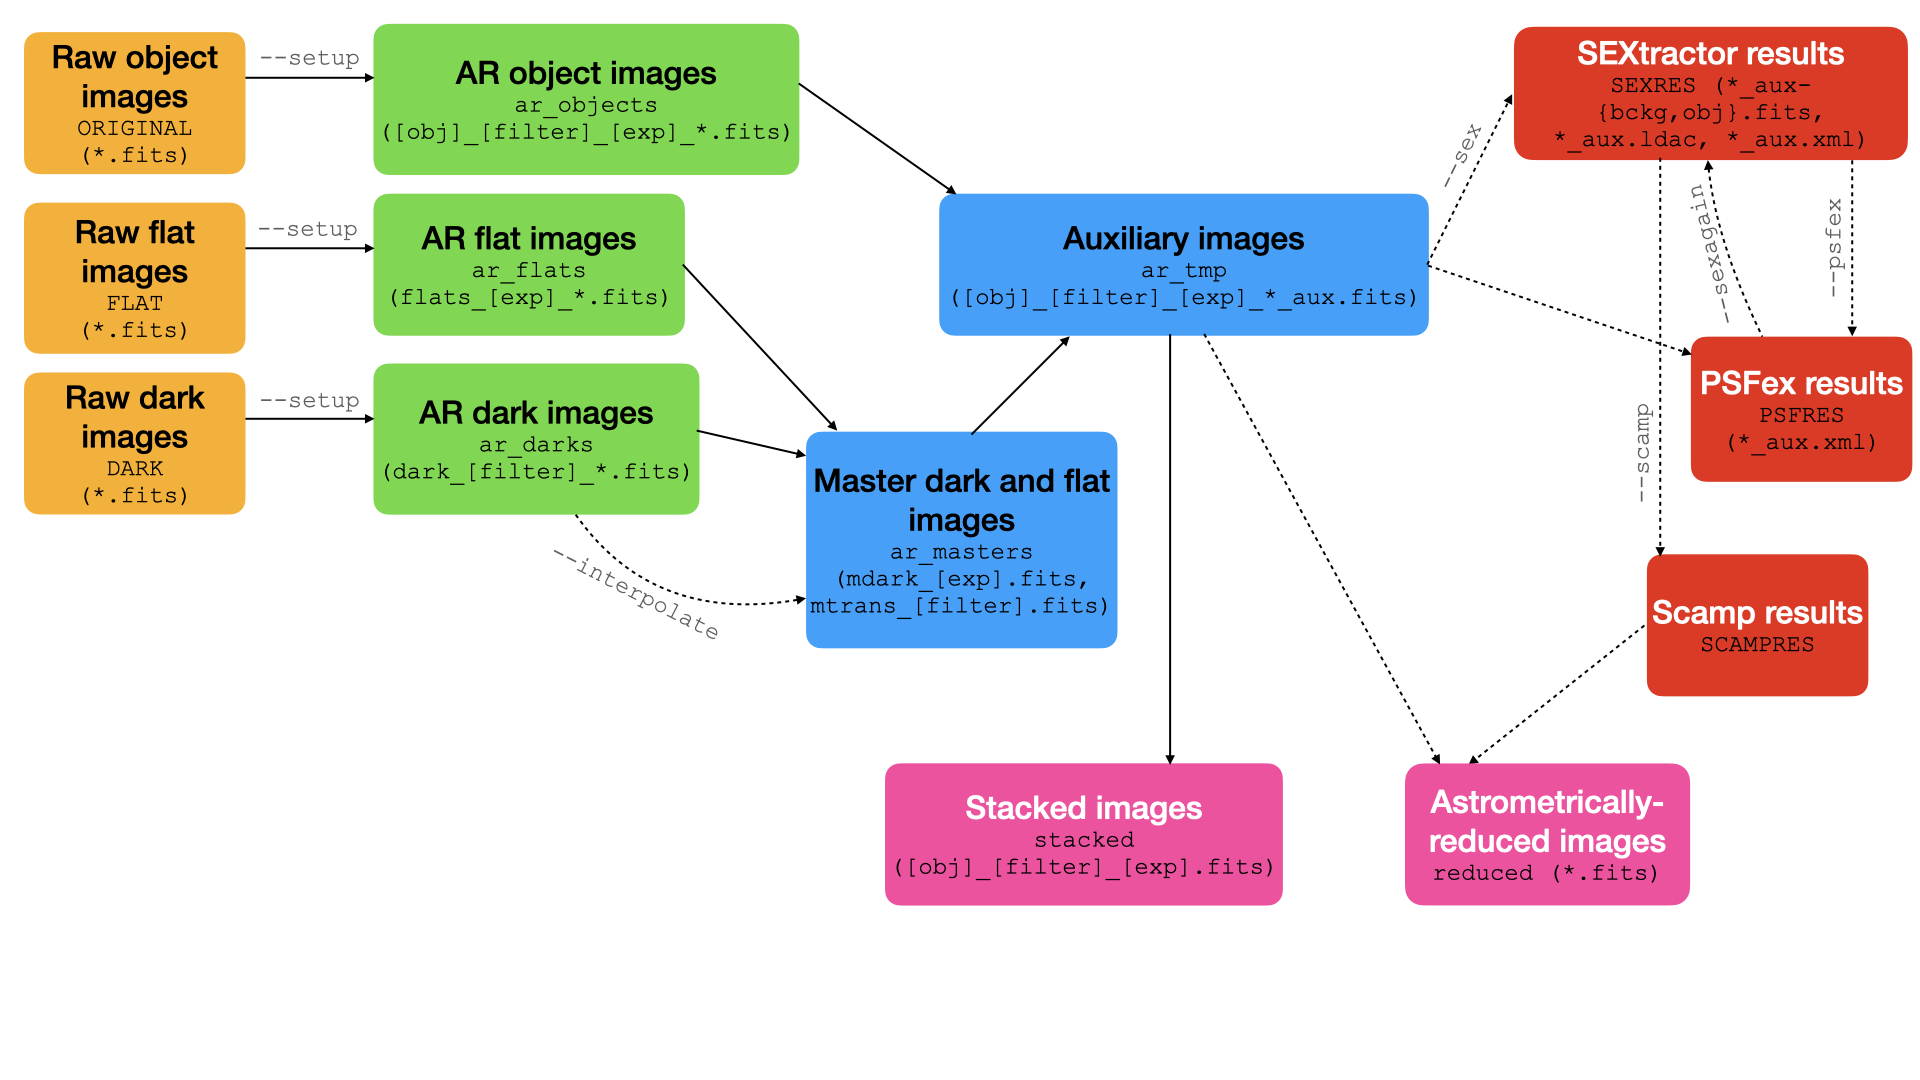
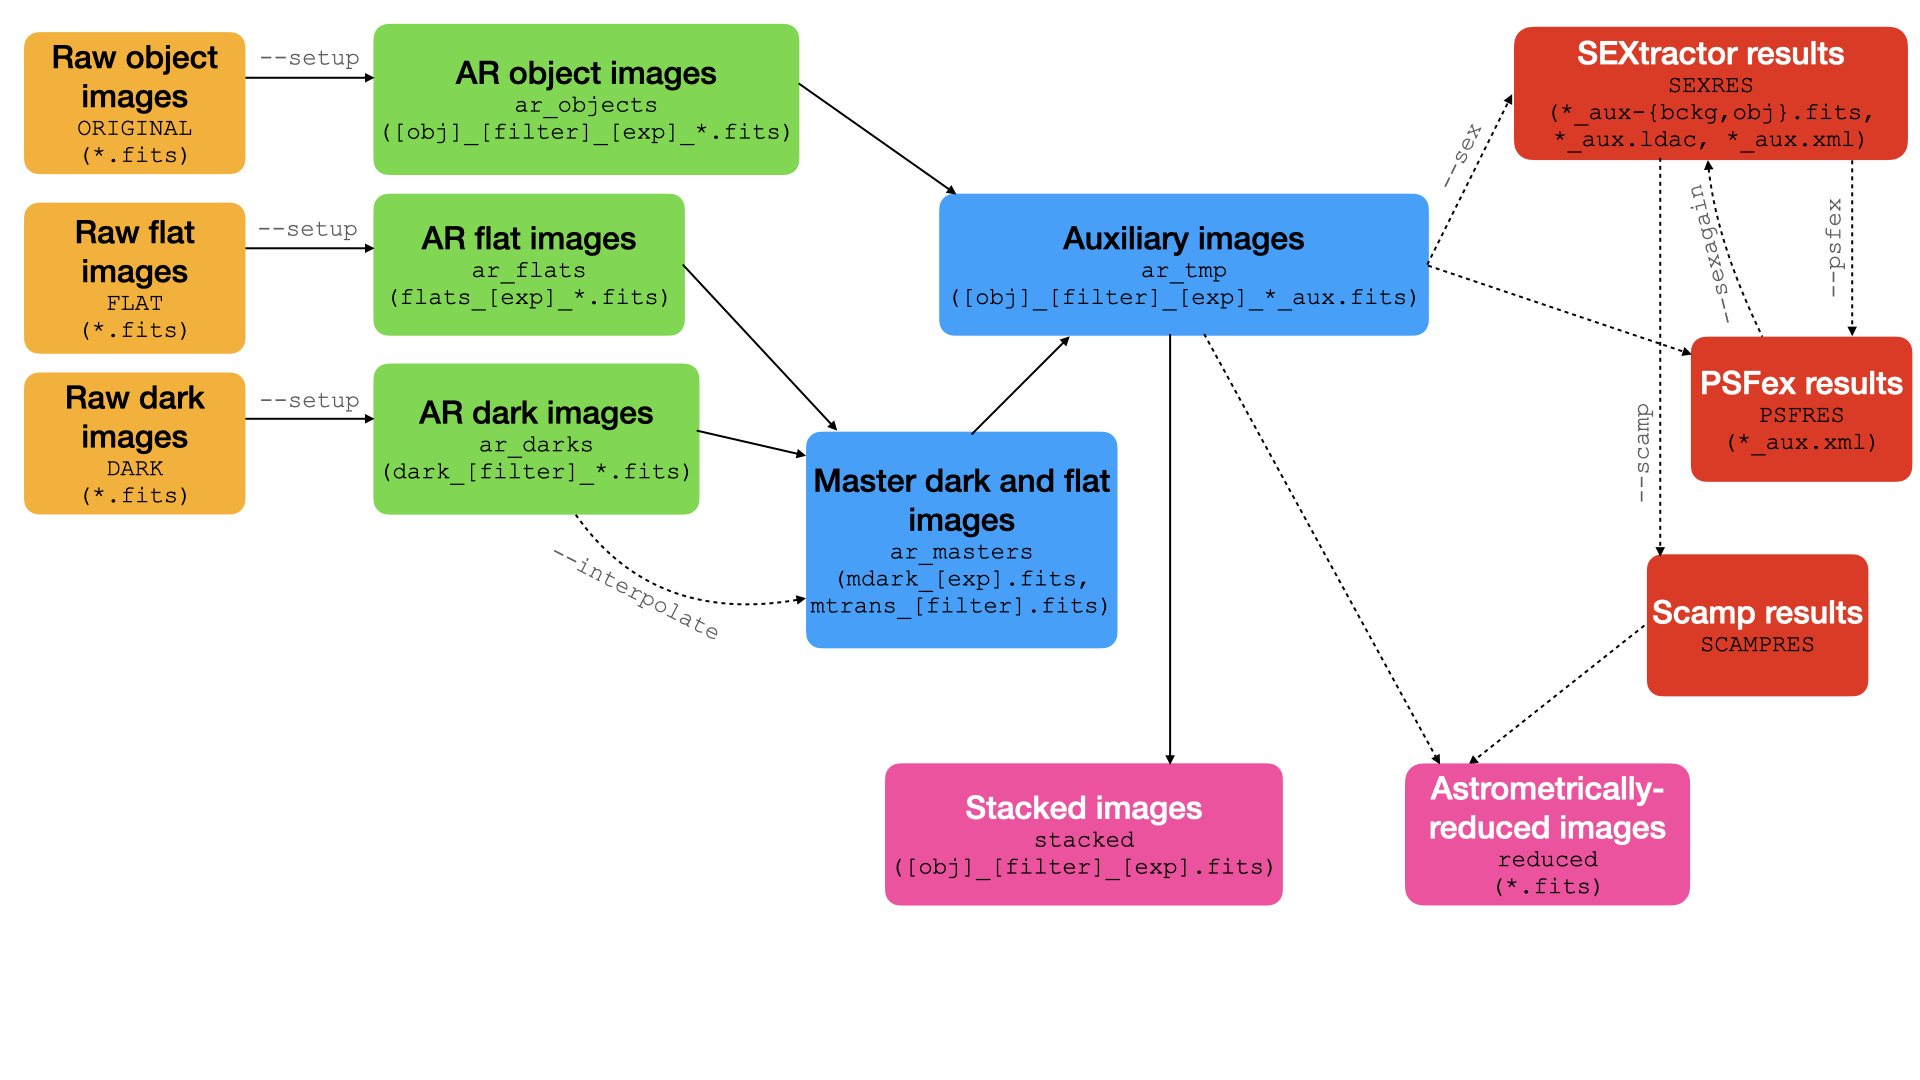
Updated documentation
Prepare for 4.1.0

Changed region(s): [[0.75, 0.7028, 0.875, 0.825], [0.8125, 0.0611, 0.9688, 0.1222]]

diff --git a/astro_reduce.py b/astro_reduce.py
@@ -48,9 +48,10 @@ from helpers import SEX_TMP, PSFEX_TMP, SEXAGAIN_OPT_TMP, SCAMP_TMP
               help='Enables verbose mode (recommended).')
 @click.option('--tmppng', '-t', is_flag=True,
               help='Write PNG format of auxiliary and master images '
-              'after reduction.')
+              'after cosmetic reduction.')
 @click.option('--stkpng', '-r', is_flag=True,
-              help='Write PNG format of stacked images after reduction.')
+              help='Write PNG format of stacked images after cosmetic '
+              'reduction.')
 @click.option('--sex', is_flag=True,
               help='Run the `sex` astromatic command on all auxiliary images '
               'after the cosmetic reduction.')

diff --git a/setup.py b/setup.py
@@ -9,7 +9,7 @@ with open("README.md", "r") as fh:
 setup(
     # General info
     name="astro_reduce",
-    version="4.0.0",
+    version="4.1.0",
     py_modules=["astro_reduce", "helpers", "cosmetic"],
 
     # Dependencies

diff --git a/README.md b/README.md
@@ -3,8 +3,9 @@
 [![image](http://img.shields.io/pypi/v/astro-reduce.svg)](https://pypi.python.org/pypi/astro-reduce/)
 
 ## What does astro_reduce do?
+`astro_reduce` carries out the cosmetic and astrometric reduction of astronomical CCD images read in FITS format. The cosmetic reduction is done in a standard fashion with dark and flat field images. The astrometric reduction is done via calling the [Astromatic Software Suite](https://www.astromatic.net/) on the images obtained from the cosmetic reduction.
 
-`astro_reduce` carries out the cosmetic and astrometric reduction of astronomical CCD images read in FITS format. The cosmetic reduction is done in a standard fashion with dark and flat field images. Optionally, it can interpolate missing dark fields from the ones available, and can also convert the intermediate and reduced images to PNG format for easy inspection. The astromatric reduction is done via calling the [Astromatic Software Suite](https://www.astromatic.net/) on the images obtained from the cosmetic reduction. For this, the relevant commands--either `sex`, `psfex` or `scamp` accordingly with the specified options--must be installed on your system. The configuration files for these commands are handled internally by `astro_reduce`, you do not need to provide them.
+Optionally, it can interpolate dark fields for exposure times missing in the available data and can also convert the intermediate and reduced images to PNG format for easy inspection. The astrometric reduction can be carried out anywhere from simply extracting sources to catalogs up to updating the image headers with astrometric output such as the linear projection matrix coefficients. For this, the relevant commands--either `sex`, `psfex` or `scamp` accordingly with the specified options--must be installed on your system. The configuration files for these commands are handled internally by `astro_reduce`, you do not need to provide them.
 
 To operate, `astro_reduce` is to be launched from a directory containing three folders:
 - A `DARK` folder, containing all the dark field images,
@@ -13,13 +14,13 @@ To operate, `astro_reduce` is to be launched from a directory containing three f
 
 All files must be in FITS format, with correct filter, exposure time and object header keywords wherever relevant.
 
-When launched for the first time in a directory, use the `--setup` option. This will copy all data files to working folders (thereby backing up the original data). Then, run `astro_reduce` again without the `--setup` option to run the cosmetic and astrometrical reduction. On the way, intermediate images such as master dark fields or non-stacked object fields are safe-kept in the `MASTER` and `ar_tmp/` folders.
+The flowchart below illustrates how `astro_reduce` runs. The boxes describe the content of folders found after the run, with directory names and filename formats therein. The lines describe the flow of data during the run: solid lines indicate the standard run of the program, while dashed lines can be realized optionally.
 
-After running, the final stacked images can be found in the `stacked/` folder. The cosmetic reduction process and the nomenclature for the naming of the files in the `MASTER`, `ar_tmp/` and `stacked/` folders are given in the _Reduction method_ paragraph below.
+When launched for the first time in a directory, use the `--setup` option. This will copy all data files to working folders (thereby backing up the original data). Then, run `astro_reduce` again with relevant options to run the cosmetic and astrometric reductions; see details below on usage.
+
+During cosmetic reduction, intermediate images such as master dark fields or non-stacked object images are safe-kept in the `ar_masters/` and `ar_tmp/` folders. The final stacked images can be found in the `stacked/` folder. The cosmetic reduction process and the nomenclature for the naming of the files in the `ar_masters/`, `ar_tmp/` and `stacked/` folders are given in the _Cosmetic reduction method_ paragraph below. If options to perform the astrometric reduction were used, the results (such as source catalogs) can be found after running in the `SEXRES`, `PSFRES` and `SCAMPRES` folders. The images with updated astrometric header data can be found in the `reduced/` folder, see _Astrometric reduction method_ below.
 
 __Note:__ It is highly recommended to inspect the intermediate images produced by `astro_reduce` before considering the final reduced images. Also, we highly recommend you inspect your raw images and eliminate any bad ones before launching the software.
-
-If options to run the Astromatic software were used, the results can be found after running in the `SEXRES`, `PSFRES` and `SCAMPRES` folders.
 
 ![flowchart](https://github.com/bandang0/astro_reduce/blob/documentation/info/flowchart.jpeg)
 
@@ -29,7 +30,7 @@ The `astro_reduce` program can be installed from the PyPI under the name `astro-
 Alternatively, use the `setup.py` file in the project directory with `python3 setup.py install --user` to install the program locally. You should then include `~/.local/bin` (or `~/Library/Python/3.x/bin` for Mac users) to your path in order to invoke `astro_reduce` from the console.
 
 ### Dependencies
-`astro_reduce` is written in Python 3.0.
+`astro_reduce` is written in Python 3.
 
 `astro_reduce` depends on the `click`, `astropy`, `numpy`, `scipy` and `matplotlib` Python packages, which are all available through the PyPI.
 
@@ -38,7 +39,7 @@ When used for the first time in a directory, or when the data has been modified 
 
 `astro_reduce --setup [--verbose]`
 
-This will setup the reduction by copying all the raw data to `astro_reduce`'s working folders whilst changing the file names to standardized formats. Also, during this phase, a configuration file in the JSON format will be written. It summarizes the objects, filters and exposures times present in the original data and is used by `astro_reduce` in the reduction process. This file should be left in the directory for further reference or for later rerunning of the program.
+This will setup the reduction by copying all the raw data to `astro_reduce`'s working folders whilst changing the file names to standardized formats, as seen in the flowchart. Also, during this phase, a configuration file in the JSON format will be written. It summarizes the objects, filters and exposures times present in the original data and is used by `astro_reduce` in the reduction process. This file should be left in the directory for further reference or for later rerunning of the program.
 
 __Note:__ This first setup step is effectively a back-up of your data, as the data left in the `DARK`, `FLAT` and `ORIGINAL` folders are no longer touched during the subsequent reduction process.
 
@@ -51,59 +52,76 @@ If the setup has already been done in the directory by prior use of the `--setup
 `astro_reduce` has been tested on Linux and Mac platforms, and has yet to be tested on Windows.
 
 ### Options
-- `--version          Show the version and exit.`
-- `-s, --setup        Set up the directory for reduction. Use this option the first time astro_reduce is run in the directory or after the --clear option was used.`
-- `-c, --clear        Remove all astro_reduce-related files and folders in current directory and exit.`
-- `-i, --interpolate  Interpolate existing dark fields if some are missing.`
-- `-v, --verbose      Enables verbose mode (recommended).`
-- `-t, --tmppng       Write PNG format of intermediate images after reduction.`
-- `-r, --redpng       Write PNG format of reduced images after reduction.`
-- `--sex              Run the 'sex' astromatic command on all reduced images after reduction.`
-- `--psfex            Run the 'psfex' astromatic command with the 'sex'-determined sources in all reduced images.`
-- `--sexagain         Run the 'sex' astromatic command a second time, using the 'psfex'-determined PSF data.`
-- `--help             Show this message and exit.`
 
+- `--version          Show the version and exit.`
+-  `-s, --setup        Set up the directory for reduction. Use this option the first time astro_reduce is run in the directory or after the '--clear' option was used.`
+-  `-c, --clear        Remove all astro_reduce-related files and folders in current directory and exit.`
+-  `-i, --interpolate  Interpolate existing dark fields if some are missing.`
+-  `-v, --verbose      Enables verbose mode (recommended).`
+-  `-t, --tmppng       Write PNG format of auxiliary and master images after cosmetic reduction.`
+-  `-r, --stkpng       Write PNG format of stacked images after cosmetic reduction.`
+-  `--sex              Run the 'sex' Astromatic command on all auxiliary images after the cosmetic reduction.`
+-  `--psfex            Run the 'psfex' Astromatic command with the 'sex'-determined sources in all auxiliary images.`
+-  `--sexagain         Run the 'sex' Astromatic command a second time, using the 'psfex'-determined PSF data.`
+-  `--scamp            Run the 'scamp' Astromatic command on all auxiliary images after cosmetic reduction.`
+-  `--nomaster         If set, do not calculate the master darks and flats (and assume they are already there!).`
+- ` --nostack          If set, skip the stacking process.`
+- `--help             Show this message and exit.`
 
 ## Cosmetic reduction method
 ### Master dark images
 For a given exposure time, the _master dark_ is calculated as the pixel-wise __median__ of all the dark fields of that exposure. This allows to eliminate cosmic ray traces.
 
 #### Dark field interpolation
-In the case where some dark fields are missing, `astro_reduce` can interpolate from the available master darks to obtain master darks for all the exposures necessary to reduce the object or flat images. This is done by specifying the `--interpolate` option.
+In the case where dark fields for some exposure times are missing, `astro_reduce` can interpolate from the available master darks to obtain master darks for all the exposures necessary to reduce the object or flat images. This is done by specifying the `--interpolate` option.
 
 The interpolation is _least-square linear_, i.e., two images A and B are determined from the available master dark images such as to __minimize the square error__ on the linear interpolation (master dark) = (exposure time) x A + B.
 
 Using these A and B, the missing master darks are calculated according to this equation.
 
->The FITS files for all the master dark images (deduced from dark fields or interpolated) can be found after reduction in the `tmp` directory under the names `mdark_[exposure].fits`.
+>The FITS files for all the master dark images (deduced from dark fields or interpolated) can be found after run in the `ar_masters/` directory under the names `mdark_[exposure].fits`.
 
 ### Master transmission images
-The _master transmission_ image for a given filter is an image which encompasses the relative transmission of each pixel in the optical setup (telescope optics through filter to CCD matrix). It is calculated for every filter as the __median__ over all flat field images, after __subtraction of corresponding master dark images__ and __normalization__.
+The _master transmission_ image for a given filter is an image which encompasses the relative transmission of each pixel in the optical setup (telescope optics through filters to CCD matrix). It is calculated for every filter as the __median__ over all flat field images, after __subtraction of corresponding master dark images__ and __normalization__.
 
->The FITS files for all the master transmission images can be found after reduction in the `tmp/` directory under the names `mtrans_[filter].fits`.
+>The FITS files for all the master transmission images can be found after reduction in the `ar_masters/` directory under the names `mtrans_[filter].fits`.
+
+If you have already run `astro_reduce` or have your own master dark and flat images, you can skip these two last steps with the `--nomaster` option. Beware that, in this case, you must place your custom master files in the `ar_masters/` folder before running.
 
 ### Individual image reduction
-An object image of given exposure and filter is reduced by __subtracting__ the corresponding exposure master dark image, and __dividing__ by the corresponding filter master transmission image.
+An object image of given exposure and filter is cosmetically reduced by __subtracting__ the corresponding exposure master dark image, and __dividing__ by the corresponding filter master transmission image. We refer to these images as the _auxiliary_ images, as in the flowchart.
 
->The FITS files for object _obj_, with filter _filt_ and exposure time _exp_ are found in the `tmp/` folder after reduction, under the name `[obj]_[filt]_[exp]_*_aux.fits` (for _auxiliary_).
+>The FITS files for object _obj_, with filter _filt_ and exposure time _exp_ are found in the `ar_tmp/` folder after reduction, under the name `[obj]_[filt]_[exp]_*_aux.fits` (for _auxiliary_), which contain `astro_reduce`-internal reference numbers.
 
-### Realignment and reduction
-Finally, for each series of same exposure and filter for each object, the auxiliary files are realigned through optimization of their __mutual cross-correlations__, and then their pixel-wise __median__ image is calculated. Using the median rather than the mean allows to efficiently remove hot pixels. This will be all the more effective as dithering has been used in acquiring the images of a series.
+### Realignment and stacking
+Finally, for each series of same exposure and filter for each object, the auxiliary images stacked: they are realigned through optimization of their __mutual cross-correlations__, and then their pixel-wise __median__ image is calculated. Using the median rather than the mean allows to efficiently remove hot pixels. This will be all the more effective as dithering has been used in acquiring the images of a series.
 
-During the realignment, images are rolled to superimpose themselves. Therefore, if the images were too misaligned to begin with, objects that roll beyond the edge can end up in odd places, potentially producing ghost images of objects. During `astro_reduce`'s run, a warning is issued to the user if any image is rolled by more than 15% of the field size during the realignment. In this case, it may be useful to remove the offending image from the dataset. If there are many such images and they are aligned amongst themselves, it is advised to change their names in order to process them together as a separate batch.
+During the realignment, images are rolled to superimpose themselves. Therefore, if the images were too misaligned to begin with, objects that roll beyond the edge can end up in odd places, potentially producing ghost images of objects. During `astro_reduce`'s run, a warning is issued to the user if any image is rolled by more than 15% of the field size during the realignment. In this case, it may be useful to remove the offending image from the dataset. If there are many such images and they are aligned amongst themselves, it is advised to change their header `OBJECT`s in order to process them together as a separate batch.
 
->These realigned images are the final reduced images and can be found in the `reduced/` folder after reduction, with the same names as in the preceding step.
+>These stacked images are the final cosmetically reduced images and can be found in the `stacked/` folder after reduction, with the same names as in the preceding step, save the `_aux` suffix and the internal image reference numbers.
+
+This stacking step can be altogether skipped using the `--nostack`, as appropriate for, e.g., fast moving objects.
 
 ## Some things to know
 - As mentioned earlier, the original files in the `DARK`, `FLAT` and `ORIGINAL` folders are not used during the reduction process. Only their copies in the `ar_*` working folders are used.
 - In copying the original files during the setup process, `astro_reduce` in effect backs up your data.
 - `astro_reduce` will deduce the object captured in a given field from the `OBJECT` keyword entry in the file's header. In the reduction, all files of a same object, filter and exposure time are cosmetically reduced and stacked together. Therefore, in order to keep different series of images of a same object separate, it is recommended to append a tag to the object name in acquiring the images of the series. For example NGC4993-1, NGC4993-2, etc.
 - During the cosmetic reduction, the headers of synthetic images are filled in with the correct `OBJECT`, `FILTER`, `EXPOSURE`, `EXPTIME` and `IMAGETYP` keyword values. The other keyword values (such as the time of acquisition) are inherited from the parent images (raw darks and flats for master dark and master transmission images; raw object images for final reduced object fields).
-- The cosmetic-reduced images found in `ar_tmp` and then `stacked` are more voluminous (typically 4 times) then the original images, because they are encoded as floats following to the reduction process.
+- The cosmetically reduced images found in `ar_tmp` and then `stacked` are more voluminous (typically 4 times) then the original images, because they are encoded as floats following the dark-flat manipulations.
 - `fit` and other derivatives can be used as extensions for the FITS files.
 - Remaining hot pixels in the reduced images can be the result of insufficient dithering.
 
 ## Astrometric reduction method
+
+The astrometric reduction is launched with the `--sex`, `--psfex`, `--sexagain` and `--scamp` options, depending on how far you would like to take the reduction:
+- Using `--sex` runs the `SExtractor` program on all auxiliary files and places the results (source catalogs, etc.) in the `SEXRES/` folder, as in the flowchart.
+- Using `--psfex` (which implies `--sex`) runs the `PSFEx` program on the auxiliary images with `sex`'s results to produce PSF-related results in the `PSFRES/` folder.
+- Using `--sexagain` (which implies `--psfex`) runs `SExtractor` a second time on the auxiliary images, but using the PSF data from the `PSFEx` run. This updates the results in `SEXRES/`.
+- Finally, using `--scamp` (which implies `--sex`) runs `SCAMP` to perform the astrometric reduction on the auxiliary images, using the source catalogs from `SEXRES/` and data on remote servers.
+
+> If the `--scamp` option was used, the final astrometrically reduced files with updated headers can be found in `reduced/` after run. By a magical trick, these final files have the same names as the original object images in the `ORIGINAL/` folder.
+
+__Note:__ `astro_reduce` ships with all configuration files for the astrometric reduction, you need not provide them. No astrometry is performed on the stacked images, only on the auxiliary images.
 
 ## Enhancing `astro_reduce`
 
